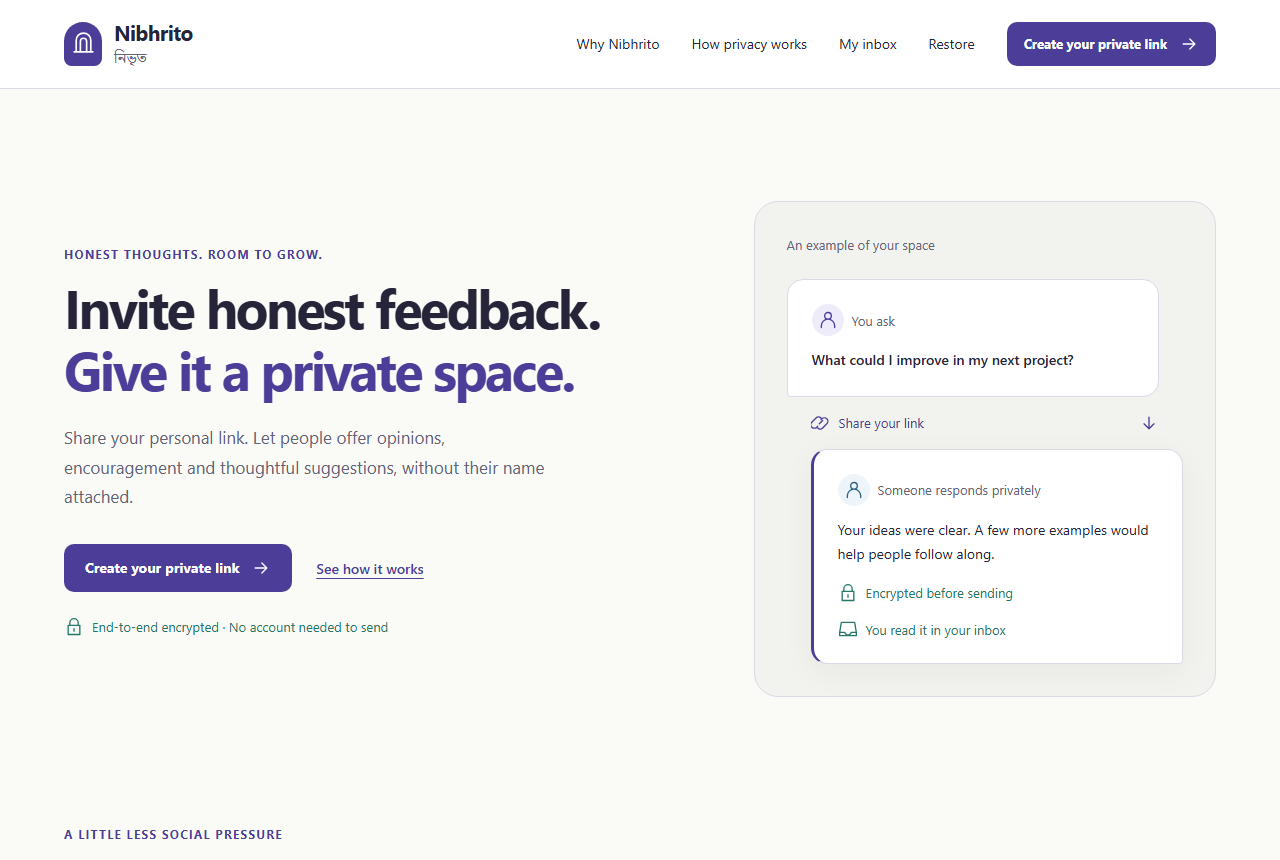
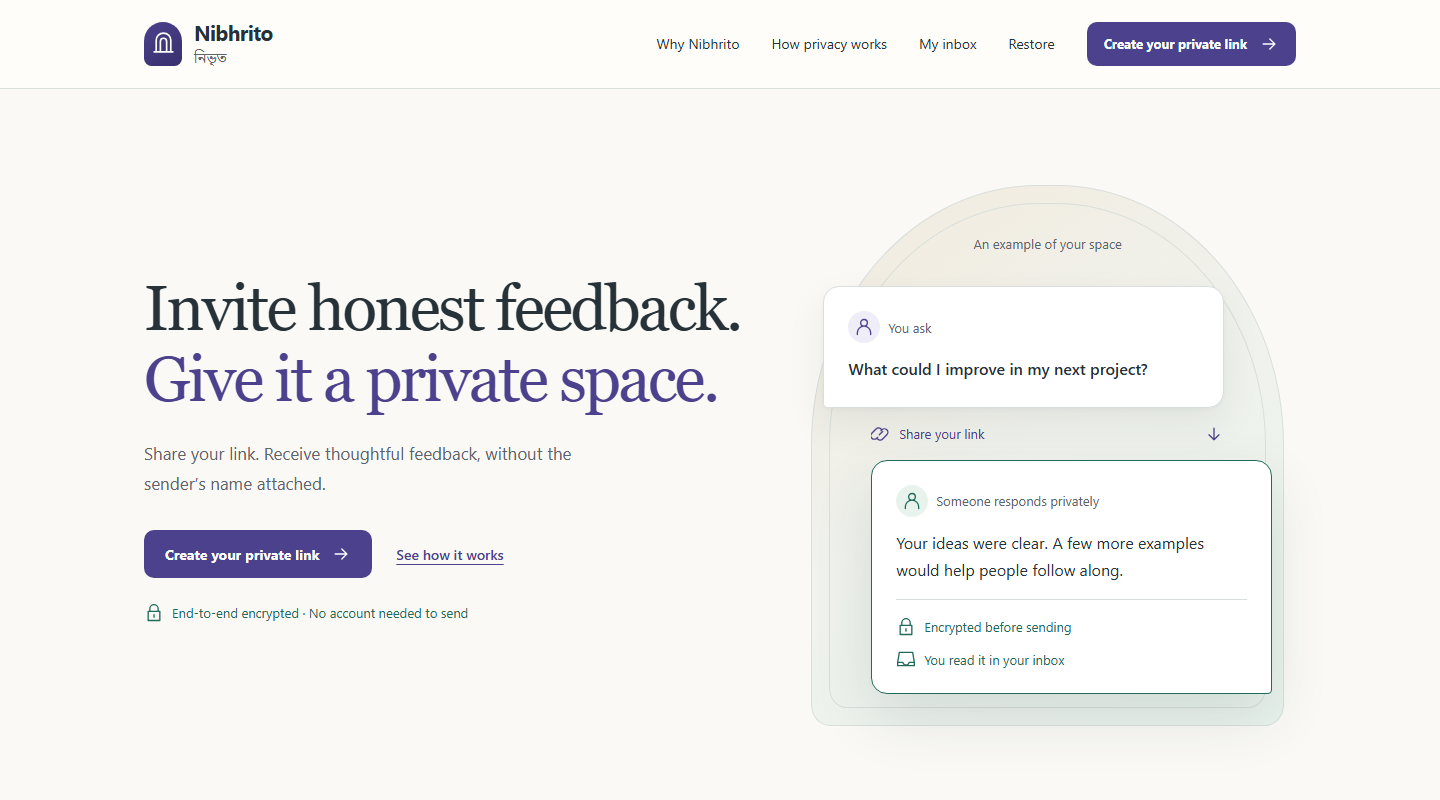
Refresh GitHub previews and architecture documentation

diff --git a/FINAL_VERIFICATION.md b/FINAL_VERIFICATION.md
@@ -1,4 +1,49 @@
-# Final local verification — 2026-10-04
+# Final local verification
+
+## Design engineering and presentation — 2026-10-05
+
+This is a local visual/repository pass from verified GitHub commit
+`219d17e634cc0d5adc84d7fad1a0e24f40767366`, not production acceptance.
+`npm run check` exits 0: formatting, lint, strict TypeScript, 113 Vitest tests in
+18 files, all 60 portable browser cases (20 per engine), artifact privacy probe,
+production build, Worker dry run, privacy check and dependency audit. npm reports
+zero vulnerabilities. `npm run test:edge` also exits 0 with all 20 cases. Across
+four browsers, 272 automated accessibility state scans have no violations;
+inconclusive rules remain manual review. Existing assertions, retries, skips and
+deadlines are unchanged.
+
+The new painted-color browser regression catches theme-transition contrast,
+and the existing captioned-flow test now covers both themes. Public geometry
+checks cover 22 combinations and masked synthetic private states cover 176,
+at eleven widths from 320 through 1600 pixels: no horizontal overflow. The
+synthetic request review found no plaintext/recovery-code leakage, browser errors
+or third-party origin. Sampled landing CLS is zero in both themes, and no font is
+downloaded. JS is 337.05 kB / 105.57 kB gzip; CSS 41.46 kB / 9.07 kB gzip.
+No dependency version changes.
+
+Gitleaks current/history scans, OSV lockfile scan (331 packages), Semgrep source
+scan, repository/history audit and its native removed-secret regression pass.
+Four approved public visuals are reviewed: fictional light/dark homepage PNGs and
+script-free architecture SVGs. The same accurate diagram replaces four Mermaid
+blocks. Relative documentation paths and GitHub Markdown picture rendering pass.
+
+The first visual gate caught transient low contrast during color crossfades;
+colors now change immediately, with a measured browser regression. An earlier
+Windows/WebKit run timed out during context cleanup after the phone assertions;
+the unchanged isolated case and fresh complete gate pass. Neither failure is
+hidden by a retry, timeout increase, weakened assertion or skipped test.
+
+Local measurements and publication checks are recorded in
+[design engineering evidence](docs/22_DESIGN_ENGINEERING.md); the published
+commit's remote result is available in the
+[release-check workflow](https://github.com/NafisAfzal/nibhrito/actions/workflows/ci.yml).
+Crypto, verified links, private key handling, recovery, API, Worker/D1 behavior,
+expiry/deletion, abuse controls, headers/CSP and privacy guarantees are unchanged.
+Physical devices, assistive technology, legal review and live deployment acceptance
+remain separate manual gates. No production resource, secret, deployment or tag
+was created. Earlier phase evidence below is retained as history.
+
+## Release QA — 2026-10-04
 
 Release candidate 1.0.0-rc.1 with the complete UI/UX redesign and product-intent UX
 upgrade and final mobile/visual polish, preserving ab5dc7d, 8526c06 and 8c891fa.

diff --git a/README.md b/README.md
@@ -10,9 +10,15 @@ them by decrypting in your browser.
 **Status:** `1.0.0-rc.1`. The MVP and local release checks are complete. Cloudflare
 deployment and live release acceptance are pending. See [project status](PROJECT_STATUS.md).
 
-![Nibhrito's public landing page with a fictional feedback example](docs/assets/overview.png)
+<picture>
+  <source media="(prefers-color-scheme: dark)" srcset="docs/assets/overview-dark.png" />
+  <source media="(prefers-color-scheme: light)" srcset="docs/assets/overview.png" />
+  <img src="docs/assets/overview.png" alt="Nibhrito's public landing page with a fictional question and constructive reply" width="1440" height="800" />
+</picture>
 
-_Public interface only. The illustration is fictional; no user profile or private inbox is shown._
+Both themes are designed deliberately and follow your browser/system preference.
+[Light preview](docs/assets/overview.png) · [Dark preview](docs/assets/overview-dark.png).
+These show public fictional content, with no private profile or inbox.
 
 ## Capabilities
 
@@ -36,14 +42,11 @@ There are no email/password accounts, attachments, analytics or third-party runt
 4. The authenticated inbox fetches ciphertext and decrypts locally. Expired
    messages stop appearing immediately; bounded cleanup later removes their rows.
 
-```mermaid
-flowchart LR
-    R[Recipient browser] -->|Complete link with public key| S[Sender browser]
-    S -->|Encrypt locally, upload ciphertext| W[Same-origin Worker API]
-    W <-->|Encrypted envelopes and metadata| D[(Cloudflare D1)]
-    W -->|Authenticated ciphertext fetch| R
-    R -->|Decrypt locally| I[Readable inbox]
-```
+<picture>
+  <source media="(prefers-color-scheme: dark)" srcset="docs/assets/message-flow-dark.svg" />
+  <source media="(prefers-color-scheme: light)" srcset="docs/assets/message-flow-light.svg" />
+  <img src="docs/assets/message-flow-light.svg" alt="Sender browser encrypts locally; the Worker and D1 handle ciphertext; the recipient browser fetches and decrypts locally" width="480" height="824" />
+</picture>
 
 The same Worker deployment serves the static application and API. An hourly Cron
 Trigger performs bounded expiry cleanup. Storage sits behind repository interfaces
@@ -167,6 +170,7 @@ calls on the same origin. Do not tag `v1.0.0` until live acceptance passes.
 
 Start with the [documentation index](docs/README.md) and
 [implementation overview](IMPLEMENTATION.md).
+The [design guide](DESIGN.md) explains the visual system and theme behavior.
 Read [CONTRIBUTING.md](CONTRIBUTING.md) before a pull request.
 Report vulnerabilities privately as described in [SECURITY.md](SECURITY.md);
 use public issues only for non-sensitive bugs and feature suggestions.

diff --git a/docs/02_ARCHITECTURE.md b/docs/02_ARCHITECTURE.md
@@ -44,42 +44,37 @@ Stores public metadata and opaque encrypted envelopes. It must not contain messa
 
 ## Trust boundaries
 
-```mermaid
-flowchart TB
-    subgraph Browser[Trusted recipient/sender browser runtime]
-        P[Plaintext]
-        K[Private keys]
-        WC[Web Crypto]
-    end
+<picture>
+  <source media="(prefers-color-scheme: dark)" srcset="assets/message-flow-dark.svg" />
+  <source media="(prefers-color-scheme: light)" srcset="assets/message-flow-light.svg" />
+  <img src="assets/message-flow-light.svg" alt="Separate sender and recipient browsers surround the Worker/D1 server boundary; messages cross that boundary as ciphertext" width="480" height="824" />
+</picture>
 
-    subgraph Edge[Server-side trust boundary]
-        W[Worker API]
-        D[(D1)]
-    end
-
-    P --> WC
-    K --> WC
-    WC -->|ciphertext only| W
-    W --> D
-```
+The diagram separates the two browser roles. The public key arrives through the
+complete verified share link; private keys are used locally. Public profile data
+and delivery metadata remain visible to the server. See the
+[protocol](03_E2EE_PROTOCOL.md) for validation, recovery, and key handling.
+Regenerate both diagram palettes with `node scripts/documentation-diagram.mjs`.
 
 ## Frontend module boundaries
 
-Recommended modules:
+Current modules:
 
 ```text
 src/crypto/protocol.ts
-src/crypto/encoding.ts
-src/crypto/keyring.ts
+src/crypto/keys.ts
 src/crypto/recovery.ts
-src/crypto/fingerprint.ts
+src/crypto/backup.ts
+src/crypto/shareLink.ts
 src/storage/indexedDb.ts
 src/features/profile/
 src/features/send/
 src/features/inbox/
 src/features/recovery/
 src/lib/api.ts
-src/lib/security.ts
+src/lib/browser.ts
+shared/protocol/encoding.ts
+shared/protocol/envelope.ts
 ```
 
 Keep `src/crypto` free of React imports. It should be testable as a pure browser/Web Crypto library.
@@ -90,14 +85,19 @@ Keep `src/crypto` free of React imports. It should be testable as a pure browser
 worker/index.ts
 worker/routes/profiles.ts
 worker/routes/messages.ts
+worker/routes/inbox.ts
+worker/routes/api.ts
 worker/routes/recovery.ts
 worker/middleware/auth.ts
 worker/middleware/rateLimit.ts
 worker/middleware/securityHeaders.ts
 worker/repositories/profileRepository.ts
 worker/repositories/messageRepository.ts
-worker/repositories/recoveryRepository.ts
-worker/security/redaction.ts
+worker/repositories/rateRepository.ts
+worker/repositories/readinessRepository.ts
+worker/repositories/cleanupRepository.ts
+worker/security/request.ts
+worker/security/network.ts
 ```
 
 ## Dependency rules

diff --git a/SECURITY_REVIEW.md b/SECURITY_REVIEW.md
@@ -209,3 +209,29 @@ asset names change. Full local/CI acceptance is recorded in docs/21. This limite
 diff review adds no independent security or accessibility certification. The final
 local gate passes 113 Vitest/57 portable/19 Edge cases with 272 local accessibility
 scans; Linux CI 37230785921 passes too. No existing security assertion is removed.
+
+## Design engineering review — 2026-10-05
+
+Scoped diff review from `219d17e634cc0d5adc84d7fad1a0e24f40767366`: semantic
+colors, CSS composition/motion, public heading scaffolding and one factual
+intro change; no crypto, key storage, recovery logic, shared schema, API,
+Worker, D1/migration, authorization, expiry/deletion, rate-limit, CSP/header,
+production configuration or legal policy-body changes. No runtime dependency,
+remote script/font, analytics, telemetry or new persistence. E2EE/protocol,
+API/database behavior and privacy/security guarantees remain unchanged.
+
+The browser regression samples painted action contrast through both theme
+directions. Color crossfades were removed after actual transient low contrast;
+movement remains optional and near-opaque text entrances preserve readability.
+All existing security/privacy assertions and private-artifact safeguards remain.
+Synthetic geometry/request inspection found no message/recovery-code leakage,
+browser errors or third-party origin. Private captures are masked and ignored;
+published previews contain only fictional public homepage content.
+
+Repository/history audit, native removed-secret regression, redacted Gitleaks
+current/history scans, Semgrep and OSV checks pass. The visual allowlist adds
+only the reviewed public screenshot and script-free diagram pairs; unknown
+visual/generated files still fail review. No new Critical/High or actionable
+Medium finding was identified in this scoped self-review. This is not an
+independent security/accessibility certification. Full evidence and recorded
+local verification failures are in [design engineering](docs/22_DESIGN_ENGINEERING.md).

diff --git a/PROJECT_STATUS.md b/PROJECT_STATUS.md
@@ -5,6 +5,19 @@ ExecPlans provide the handoff; no chat history is needed.
 
 ## Current state
 
+The final design-engineering and repository-presentation pass is implemented
+against the verified GitHub baseline `219d17e634cc0d5adc84d7fad1a0e24f40767366`.
+Both browser themes now have deliberate semantic colors and surface depth, an
+editorial public hero, a brand-derived conversation composition and short native
+CSS feedback. No theme-storage feature or runtime dependency was added. Paired
+public screenshots and maintainable light/dark architecture SVGs replace the
+single preview and four cramped Mermaid blocks. The source of truth for this
+pass is [design engineering evidence](docs/22_DESIGN_ENGINEERING.md) and
+[the design guide](DESIGN.md). The complete local gate passes 113 Vitest tests,
+60 portable browser cases and 20 installed-Edge cases. Local visual approval and
+physical-device/AT checks remain owner actions before the separate production
+deployment phase.
+
 All locally executable MVP work is complete: Phases 0–7 and Phase 8 deployment
 preparation. The complete UI/UX redesign, product-intent upgrade and final mobile/
 visual polish are implemented and verified. Remaining local accessibility and
@@ -31,7 +44,8 @@ also passes all 19 cases after the correction. Publication is complete; Cloudfla
 deployment and live/manual acceptance remain separate owner actions.
 See [publication evidence](docs/21_GITHUB_PUBLICATION.md).
 No license is selected. Protocol, API, database, key handling and locked dependency
-versions have no changes. The only application change is the scoped setup CSS fix.
+versions have no changes. The scoped setup CSS correction was the only application
+change during publication; this later design pass is separately documented above.
 
 Publication evidence: [passing Linux CI](https://github.com/NafisAfzal/nibhrito/actions/runs/37230785921),
 [source/history audit and verified settings](docs/21_GITHUB_PUBLICATION.md).

diff --git a/NIBHRITO_MASTER_PLAN.md b/NIBHRITO_MASTER_PLAN.md
@@ -87,18 +87,15 @@ Free-tier limits must be treated as capacity constraints, not promises of perman
 
 ## 5. Core data flow
 
-```mermaid
-flowchart LR
-    A[Recipient browser] -->|create profile + public metadata| B[Worker API]
-    B --> C[(D1)]
-    A -->|share URL containing #pk| D[Sender]
-    D -->|plaintext stays local| E[Web Crypto]
-    E -->|ciphertext envelope| B
-    B --> C
-    A -->|authenticated inbox fetch| B
-    B -->|ciphertext envelopes| A
-    A -->|local decrypt| F[Readable inbox]
-```
+<picture>
+  <source media="(prefers-color-scheme: dark)" srcset="docs/assets/message-flow-dark.svg" />
+  <source media="(prefers-color-scheme: light)" srcset="docs/assets/message-flow-light.svg" />
+  <img src="docs/assets/message-flow-light.svg" alt="The sender encrypts locally, the Worker stores ciphertext in D1, and the authenticated recipient decrypts locally" width="480" height="824" />
+</picture>
+
+The diagram presentation has been refreshed to show the implemented v1 flow.
+The surrounding text remains the original planning snapshot; use the split
+architecture and protocol documents for current implementation details.
 
 The `#pk` URL fragment is not part of the HTTP request sent to the server. The sender client uses that fragment as the recipient public encryption key.
 

diff --git a/IMPLEMENTATION.md b/IMPLEMENTATION.md
@@ -104,6 +104,19 @@ cover 272 states across four browsers, without claiming full WCAG conformance.
 See [docs/20_RELEASE_ACCEPTANCE.md](docs/20_RELEASE_ACCEPTANCE.md) for scope,
 the recorded initial Edge startup timeout and exact remaining device/AT checks.
 
+The later design-engineering pass refines this working UI with separate warm
+light/slate dark palettes, native serif public display type, layered conversation
+surfaces and bounded brand gradients. Browser/OS theme selection and first paint
+remain unchanged. Small CSS entrances, press and receipt feedback respect reduced
+motion; action colors change immediately to retain contrast. There are no new
+runtime packages, fonts, requests or persistence. Paired public screenshots and
+reproducible SVG diagrams improve the README without changing architecture.
+The final portable gate passes 113 unit/integration tests and 60 browser cases,
+plus 20 installed-Edge cases and 272 automated accessibility scans.
+See [design guide](DESIGN.md) and
+[design engineering evidence](docs/22_DESIGN_ENGINEERING.md) for measurements,
+security diff, CI and owner inspection.
+
 ## Production and operations
 
 Follow [docs/16_DEPLOYMENT_OPERATIONS.md](docs/16_DEPLOYMENT_OPERATIONS.md) for exact

diff --git a/docs/01_MASTER_PLAN.md b/docs/01_MASTER_PLAN.md
@@ -87,18 +87,11 @@ Free-tier limits must be treated as capacity constraints, not promises of perman
 
 ## 5. Core data flow
 
-```mermaid
-flowchart LR
-    A[Recipient browser] -->|create profile + public metadata| B[Worker API]
-    B --> C[(D1)]
-    A -->|share URL containing #pk| D[Sender]
-    D -->|plaintext stays local| E[Web Crypto]
-    E -->|ciphertext envelope| B
-    B --> C
-    A -->|authenticated inbox fetch| B
-    B -->|ciphertext envelopes| A
-    A -->|local decrypt| F[Readable inbox]
-```
+<picture>
+  <source media="(prefers-color-scheme: dark)" srcset="assets/message-flow-dark.svg" />
+  <source media="(prefers-color-scheme: light)" srcset="assets/message-flow-light.svg" />
+  <img src="assets/message-flow-light.svg" alt="The sender encrypts locally, the Worker stores ciphertext in D1, and the authenticated recipient decrypts locally" width="480" height="824" />
+</picture>
 
 The `#pk` URL fragment is not part of the HTTP request sent to the server. The sender client uses that fragment as the recipient public encryption key.
 

diff --git a/docs/README.md b/docs/README.md
@@ -12,6 +12,7 @@ references from historical planning and design evidence.
 - [Data model and API](05_DATA_API.md).
 - [Testing and acceptance](09_TESTING_ACCEPTANCE.md).
 - [Contributing](../CONTRIBUTING.md).
+- [Design guide](../DESIGN.md) — semantic colors, themes, composition, and motion.
 
 ## Security reviewers
 
@@ -39,6 +40,8 @@ references from historical planning and design evidence.
 - [Master plan](01_MASTER_PLAN.md) and [implementation roadmap](06_IMPLEMENTATION_ROADMAP.md).
 - [Product UX plan](12_PRODUCT_UX.md), [UI redesign](17_UI_REDESIGN.md),
   [product-intent UX](18_PRODUCT_INTENT_UX.md) and [mobile polish](19_FINAL_MOBILE_POLISH.md).
+- [Design engineering](22_DESIGN_ENGINEERING.md) — tooling audit, independent
+  critique, visual changes, and final acceptance evidence.
 - [Sources](11_SOURCES.md) — references from the initial planning work.
 - [Agent runbook](10_AGENT_RUNBOOK.md), [execution-plan rules](../.agent/PLANS.md)
   and [original combined planning snapshot](../NIBHRITO_MASTER_PLAN.md).
